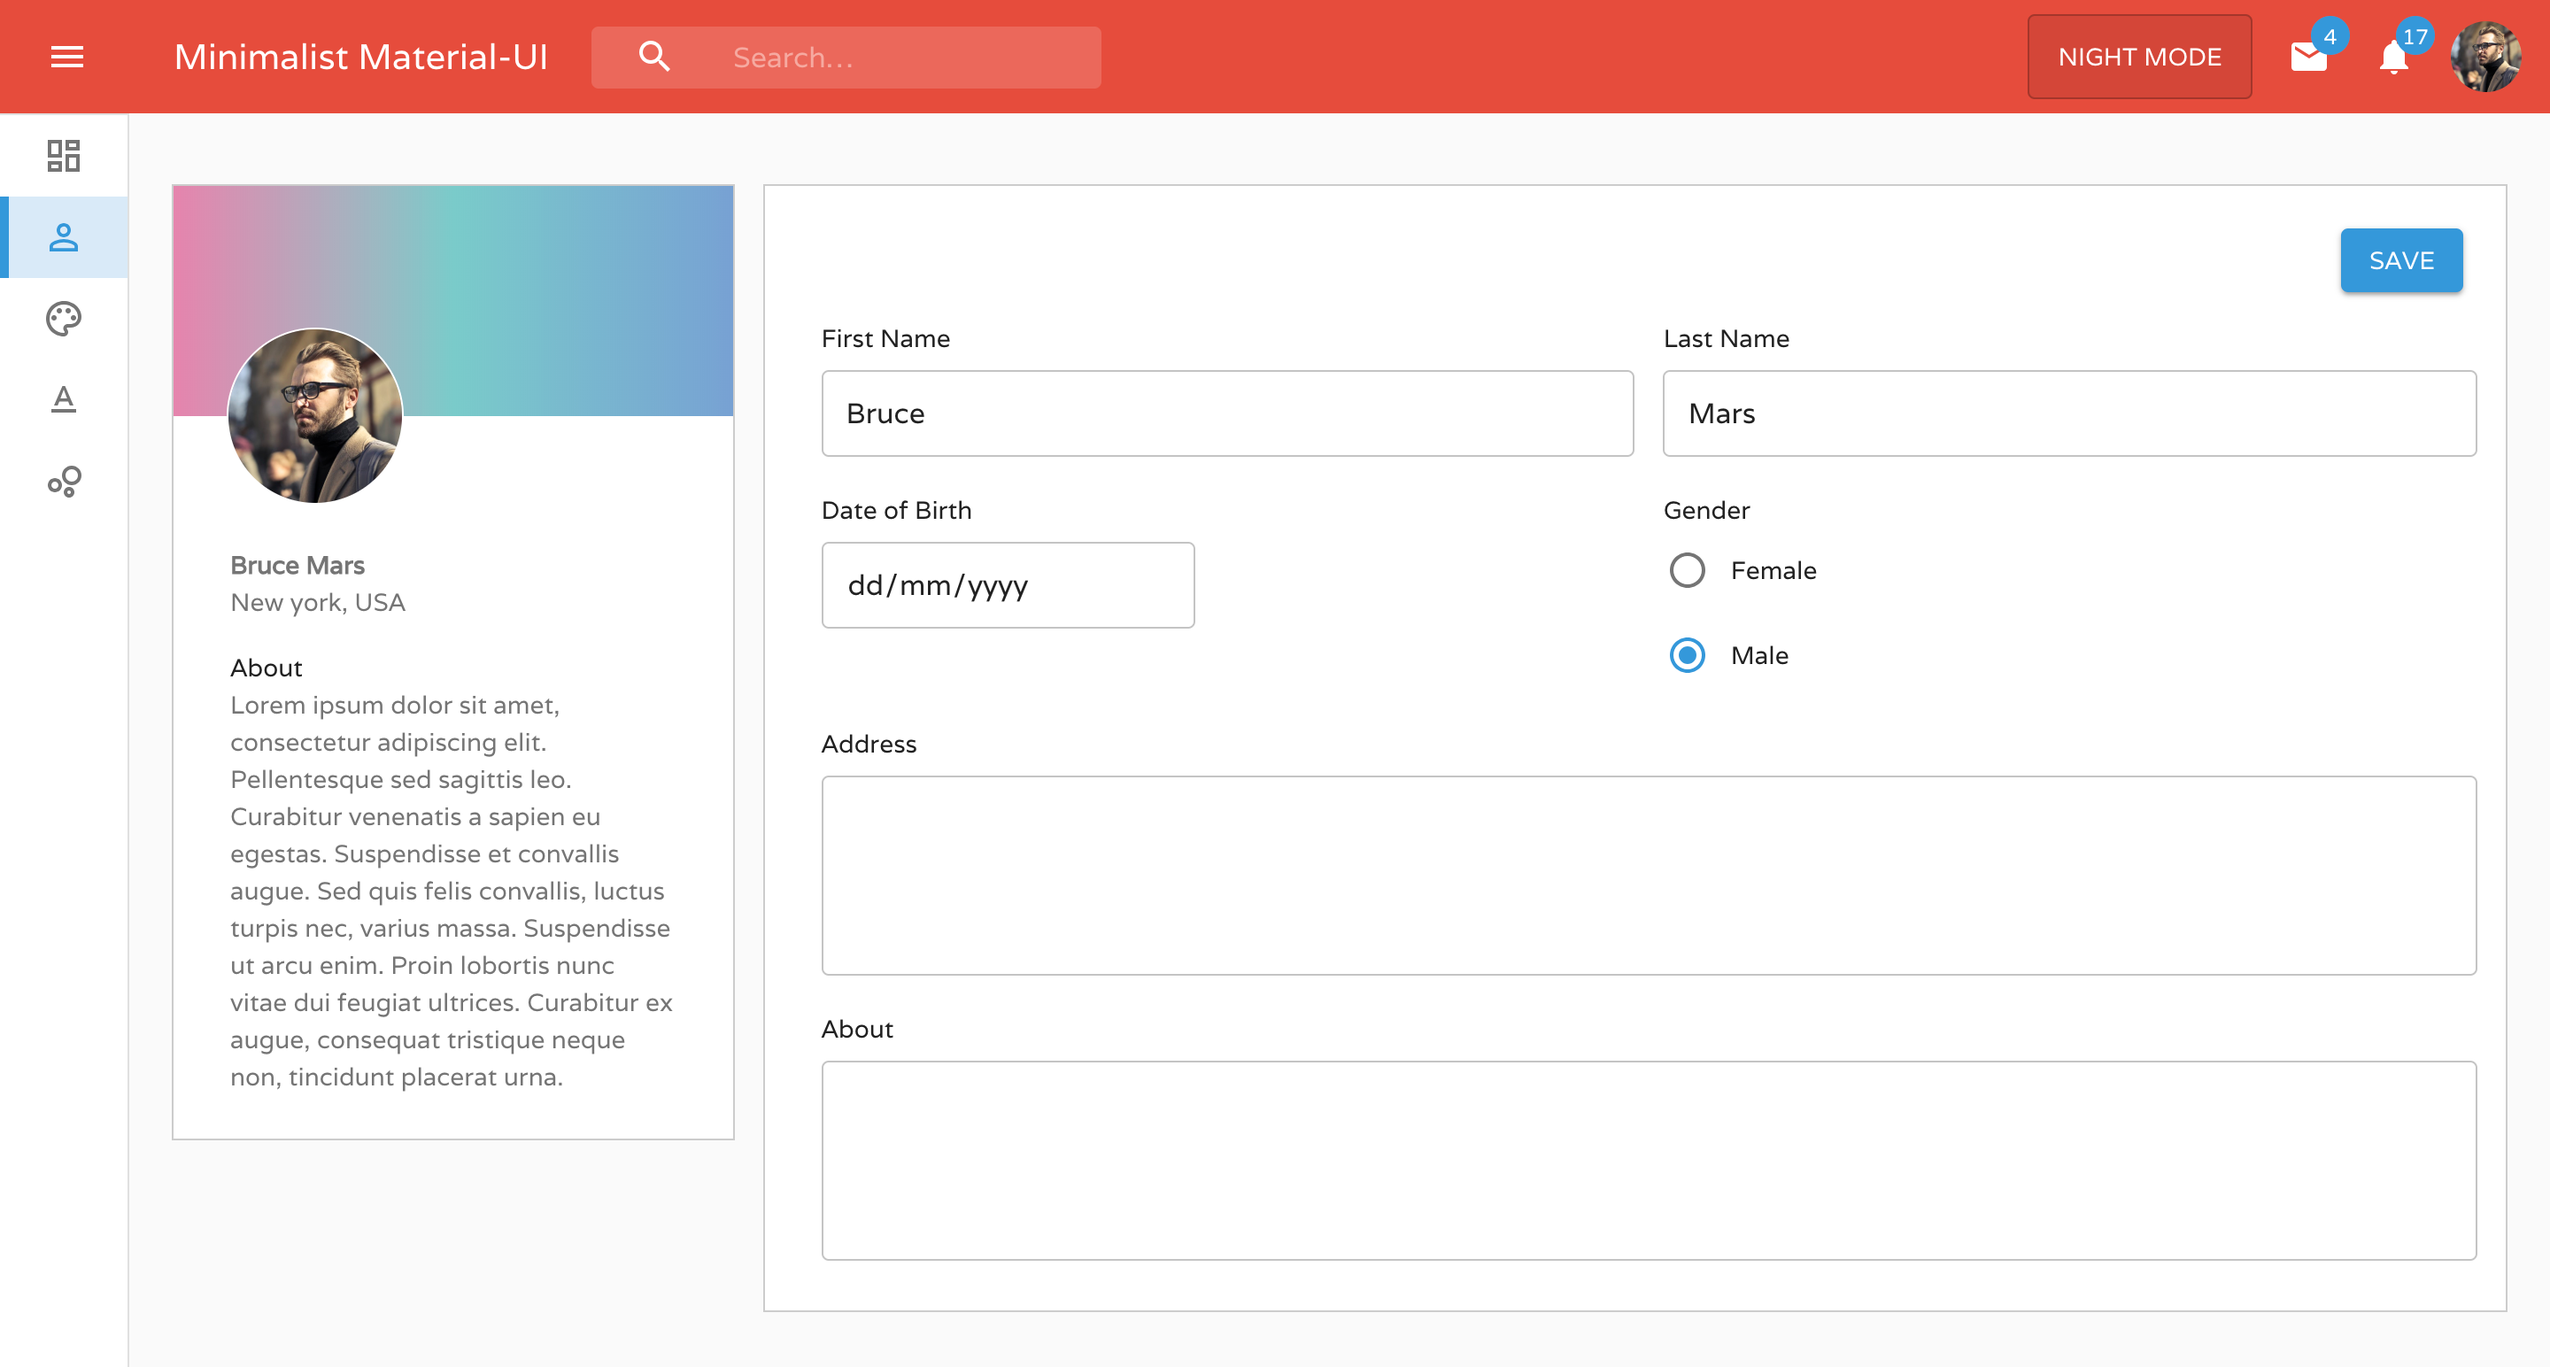
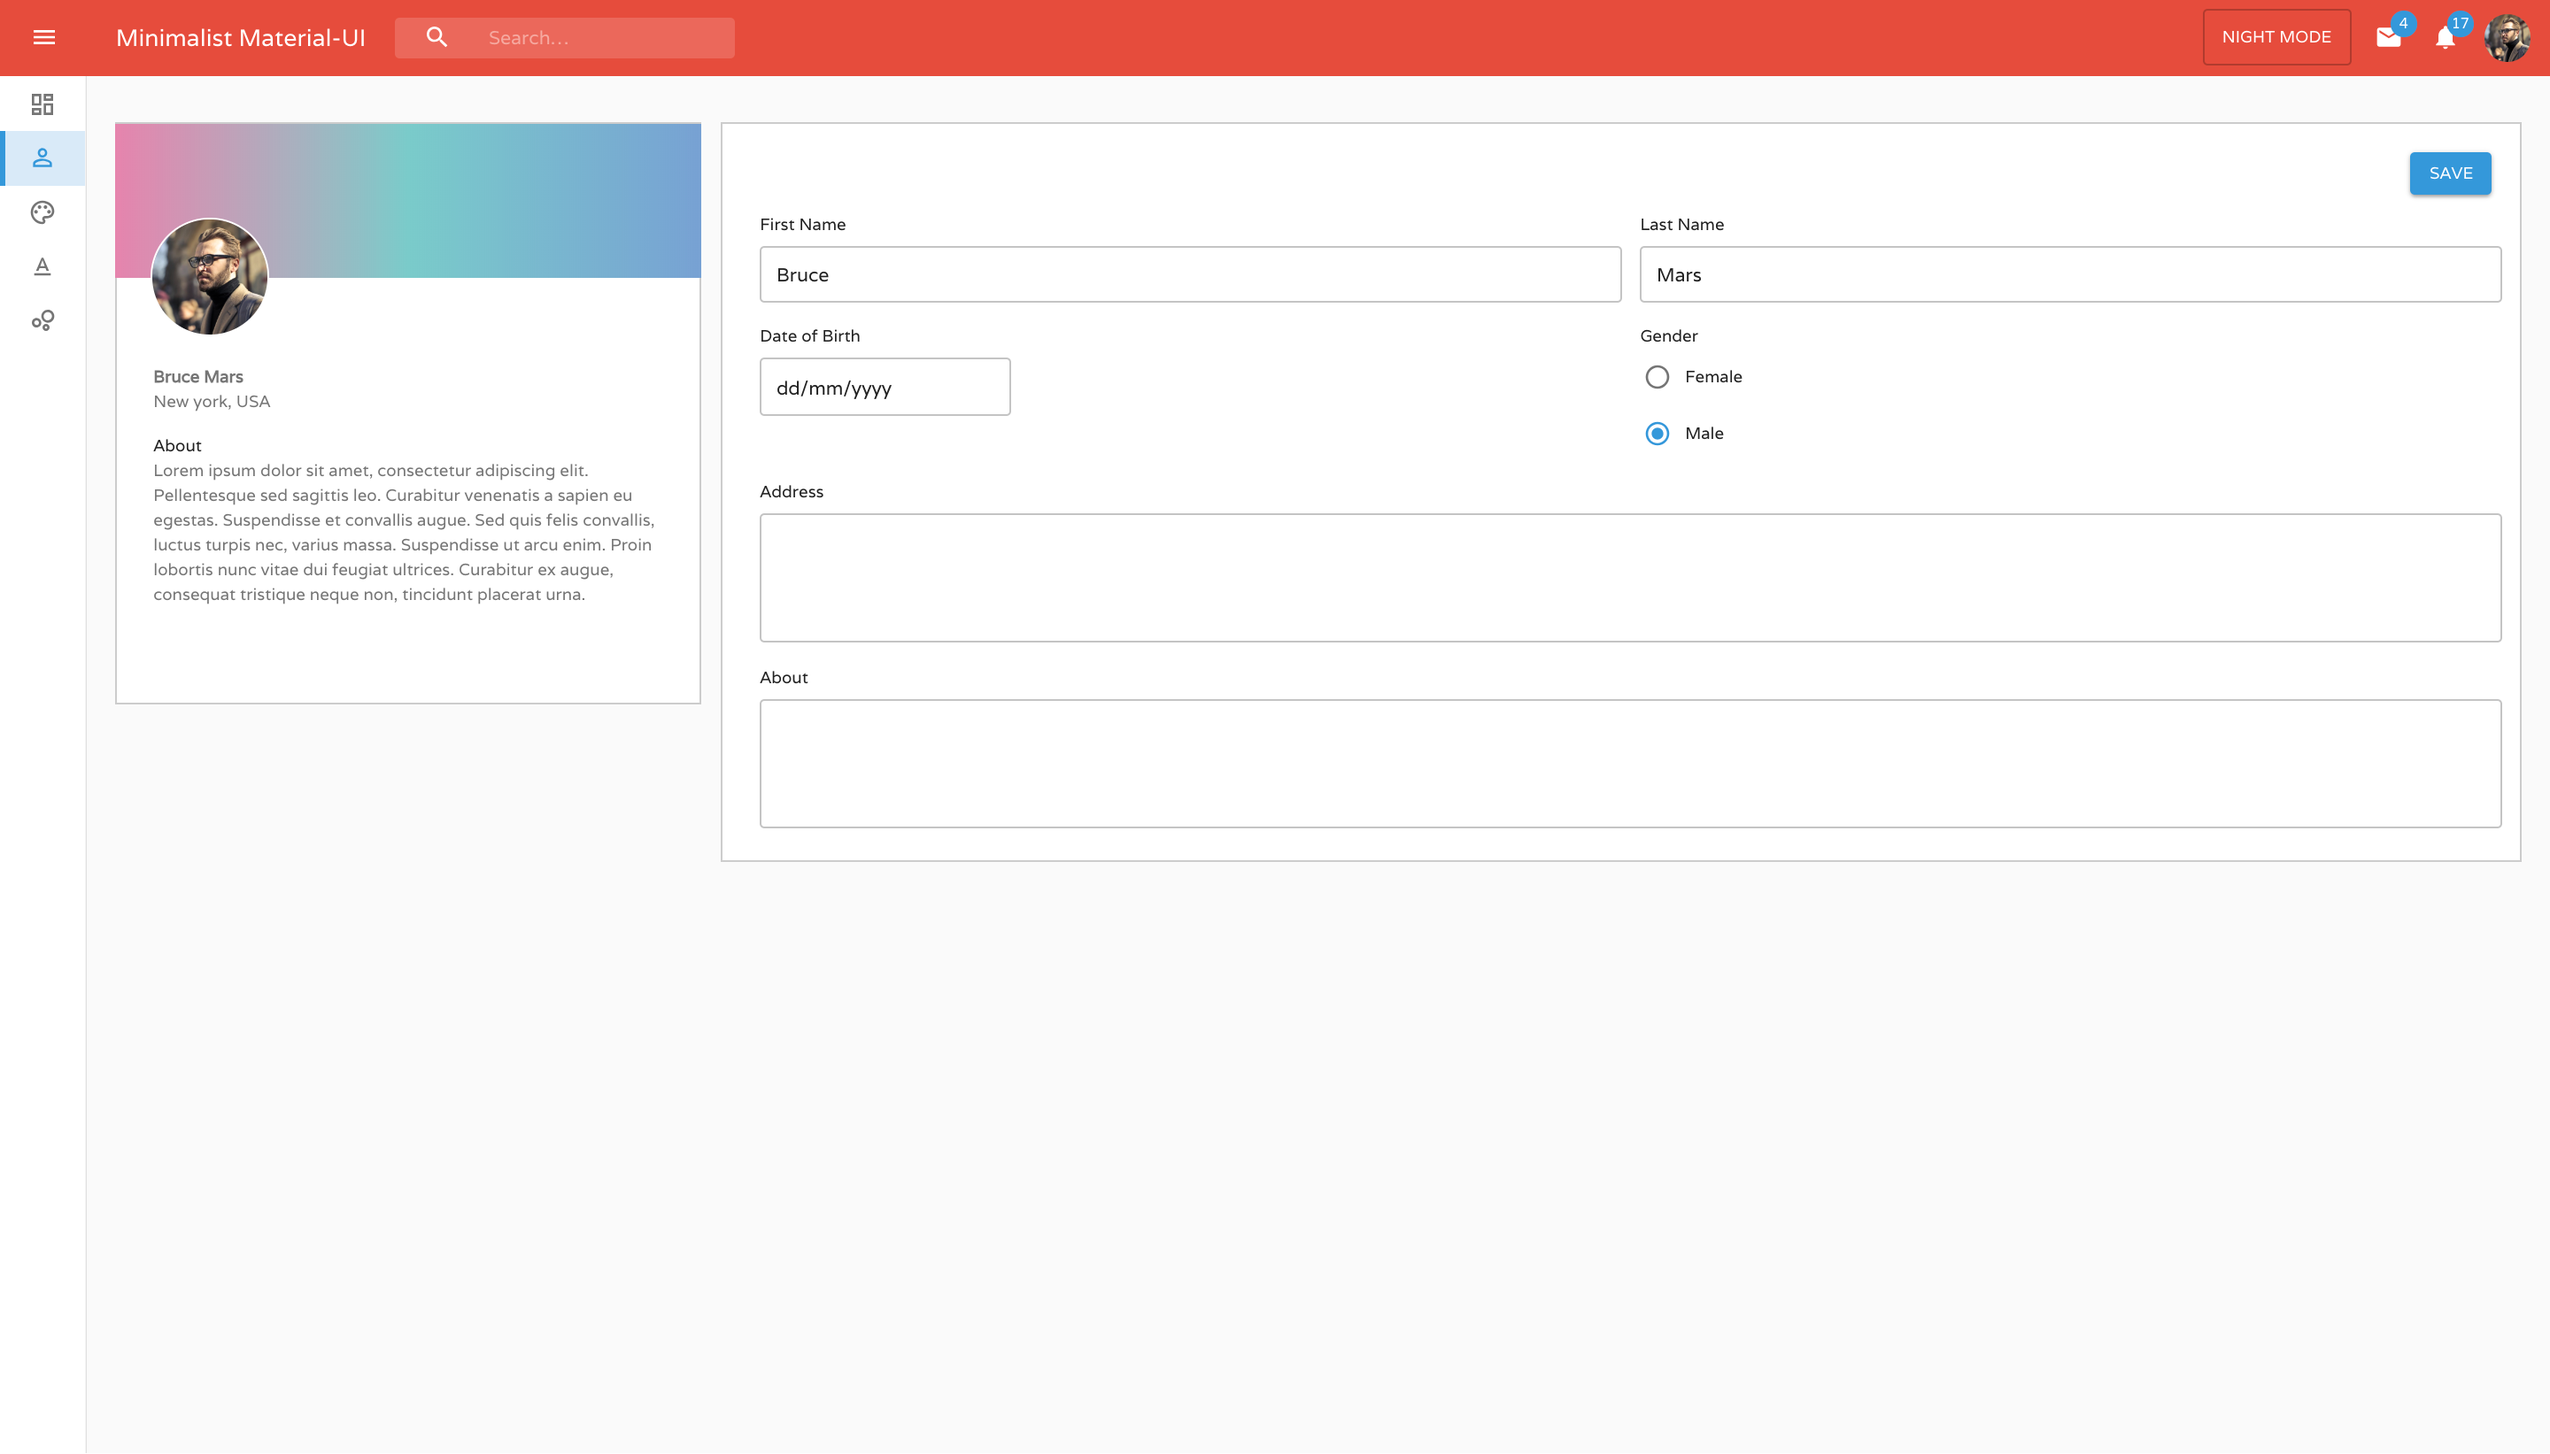
update preview image

diff --git a/src/views/Profile/Profile.jsx b/src/views/Profile/Profile.jsx
@@ -30,7 +30,8 @@ function Profile() {
         <Grid container>
             <Grid className={classes.gridItem} item xs={12} sm={12} md={3}>
                 <Paper square style={{
-                    minHeight: "70vh",
+                    minHeight: "40vh",
+                    paddingBottom:16
                 }}>
                     <div style={{
                         background: "linear-gradient(to right, #E684AE, #79CBCA, #77A1D3)",
@@ -69,7 +70,7 @@ function Profile() {
             </Grid>
             <Grid className={classes.gridItem} item xs={12} sm={12} md={9}>
                 <Paper square style={{
-                    minHeight: "80vh",
+                    minHeight: "50vh",
                 }}>
                     <Grid container style={{ padding: "16px 16px" }}>
                         <Grid item xs={12} sm={12} md={12} className={classes.gridItem}
